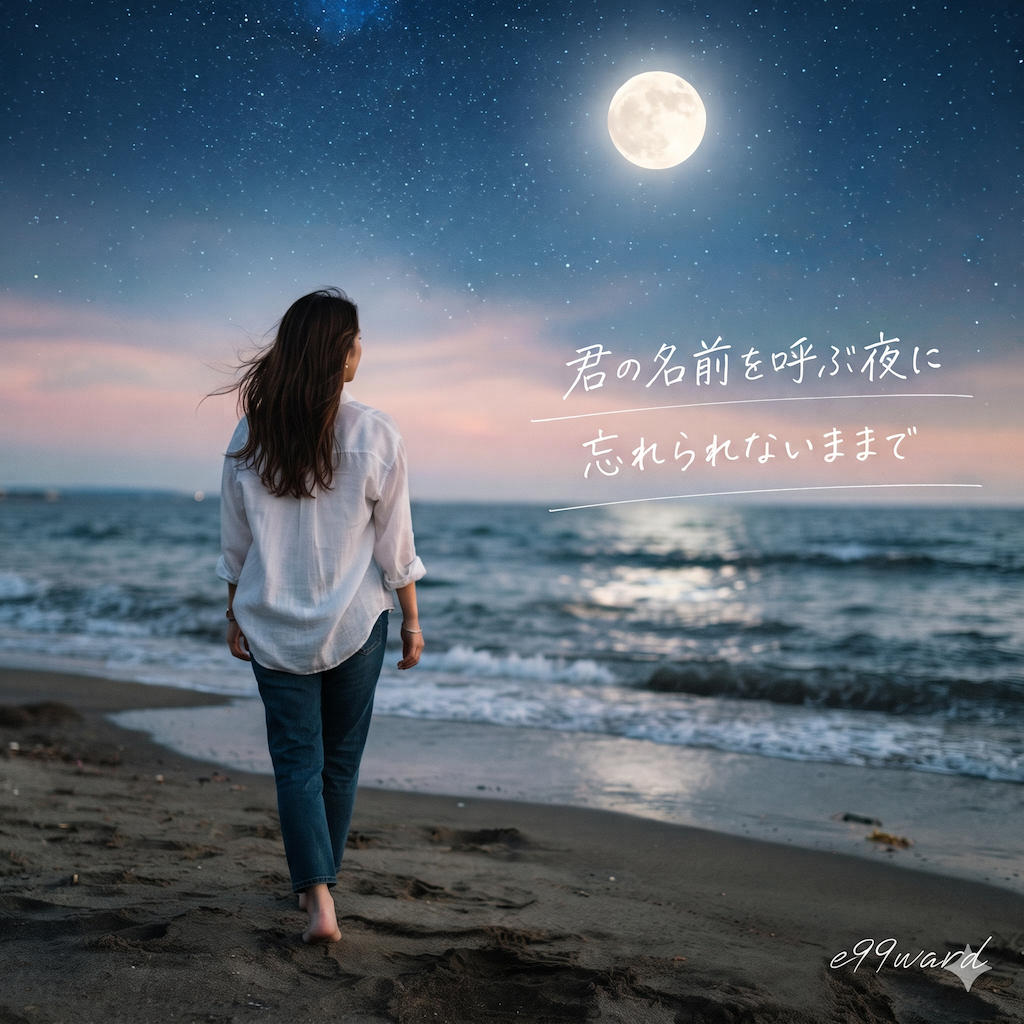
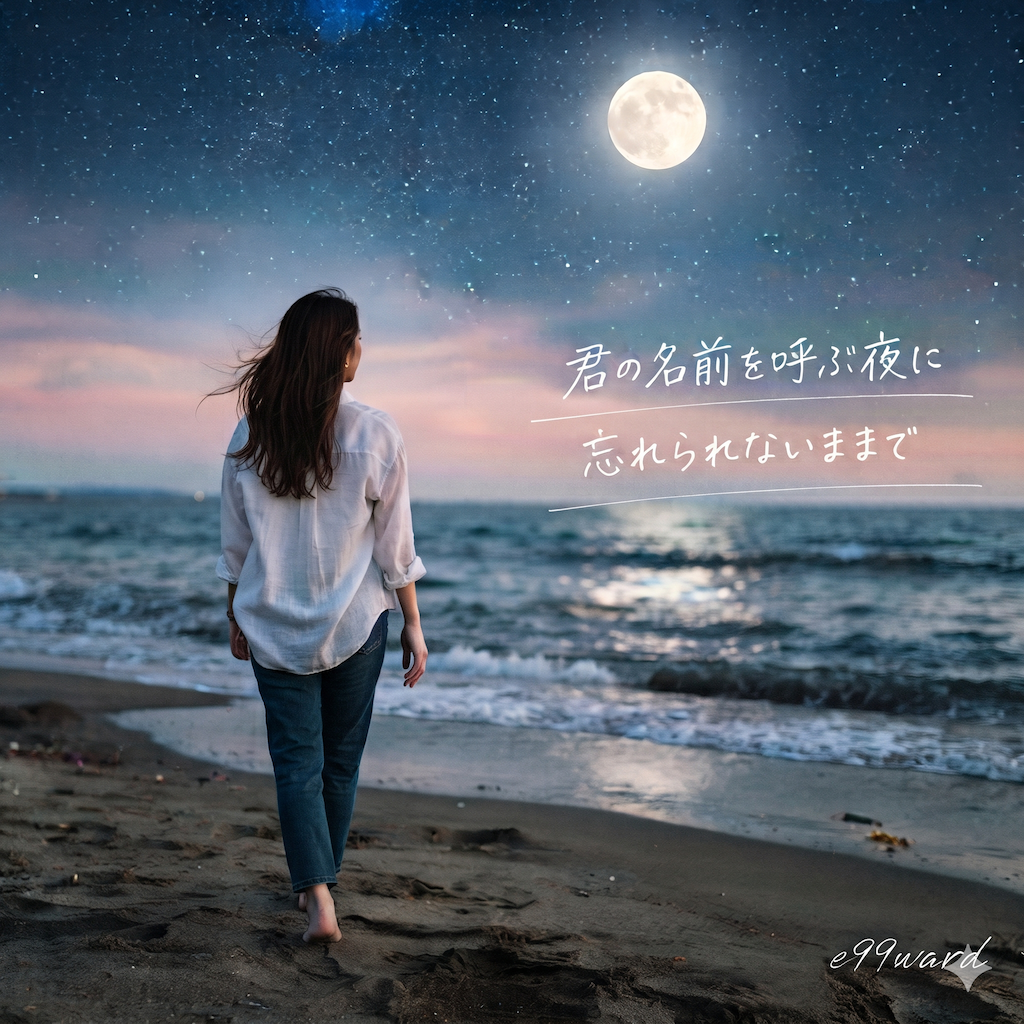
song link

diff --git a/group3/songs.html b/group3/songs.html
@@ -705,7 +705,7 @@
         engine: "flowmusic",
         description: "깊어지는 좋아하는 감정을 숨기고 결국 상대의 행복을 빌어줄 수 밖에 없는 애절함을 담은 곡",
         image: "./song-01.png",
-        audioUrl: "https://youtube.com/shorts/2FooNRJc3TU", // 외부 노래 보관 사이트 URL
+        audioUrl: "https://youtube.com/shorts/2FooNRJc3TU", // https://www.flowmusic.app/song/529ed543-5ff4-48f3-be3b-6d97d46ac117
         lyrics: `
 [Verse 1]
 온통 너로 가득한 하루  
@@ -760,7 +760,7 @@
         engine: "flowmusic",
         description: "깊어지는 좋아하는 감정을 숨기고 결국 상대의 행복을 빌어줄 수 밖에 없는 애절함을 담은 곡 (여성 보컬 편곡)",
         image: "./song-01.png",
-        audioUrl: "https://youtube.com/shorts/wX9Man59HrU", // 외부 노래 보관 사이트 URL
+        audioUrl: "https://youtube.com/shorts/wX9Man59HrU", // https://www.flowmusic.app/song/caaa7e4d-052c-4279-853a-3221d5e5319c
         lyrics: `
 [Verse 1]
 온통 너로 가득한 하루  
